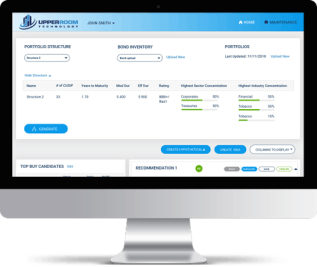
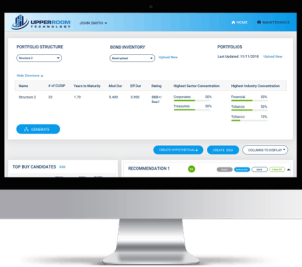
feat: update link image bg UpperRoom

diff --git a/case-study/upperroom.html b/case-study/upperroom.html
@@ -51,7 +51,7 @@
           <source media="(max-width: 479px)" width="317px" height="267px" srcset="../images/case-study/upper-room/webp/upperroom-mobile.webp" type="image/webp">
           <source media="(min-width: 480px)" width="855px" height="719px" srcset="../images/case-study/upper-room/webp/upperroom.webp" type="image/webp">
           <source srcset="../images/case-study/png/upper-room/upperroom.png" type="image/png">
-          <img loading="lazy" src="../images/case-study/upper-room/png/upperroom.png" alt="Screenshot of UpperRoom webapp user dashboard" srcset="../images/case-study/upper-room/png/upperroom-p-500.png 500w, ../images/case-study/upper-room/png/upperroom-p-800.png 800w, ../images/case-study/upper-room/png/upperroom-p-1080.png 1080w, ../images/case-study/upper-room/png/upperroom-p-1600.png 1600w, ../images/case-study/upper-room/png/upperroom-p-1920.png 1920w" class="web-hero-image">
+          <img loading="lazy" src="../images/case-study/upper-room/png/upperroom.png" alt="Screenshot of UpperRoom webapp user dashboard" srcset="../images/case-study/upper-room/png/upperroom-p-500.png 500w, ../images/case-study/upper-room/png/upperroom-p-800.png 800w, ../images/case-study/upper-room/png/upperroom-p-1080.png 1080w, ../images/case-study/upper-room/png/upperroom-p-1600.png 1600w, ../images/case-study/upper-room/png/upperroom-p-1920.png 1920w" sizes="(max-width: 479px) 88vw, (max-width: 767px) 92vw, (max-width: 991px) 480px, 83vw" class="web-hero-image">
         </picture>
       </div>
     </div>
